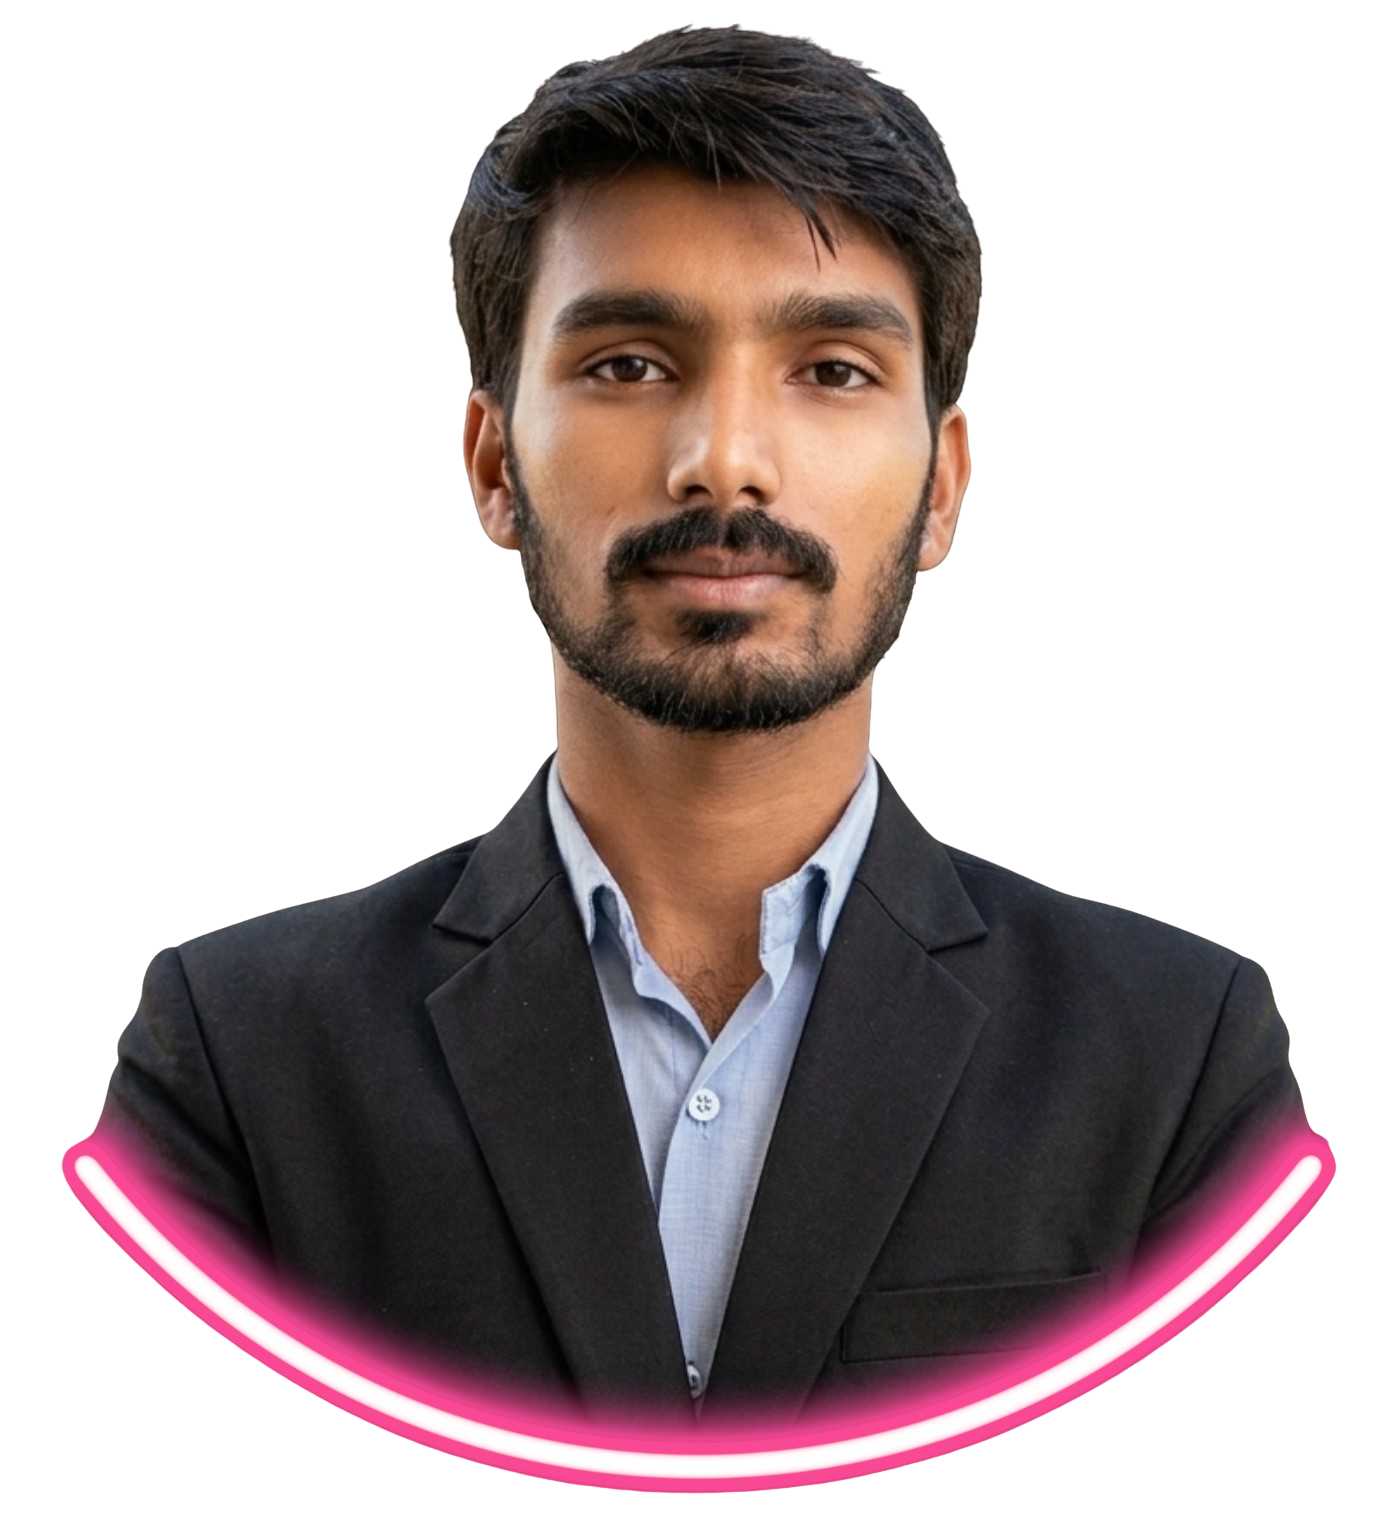
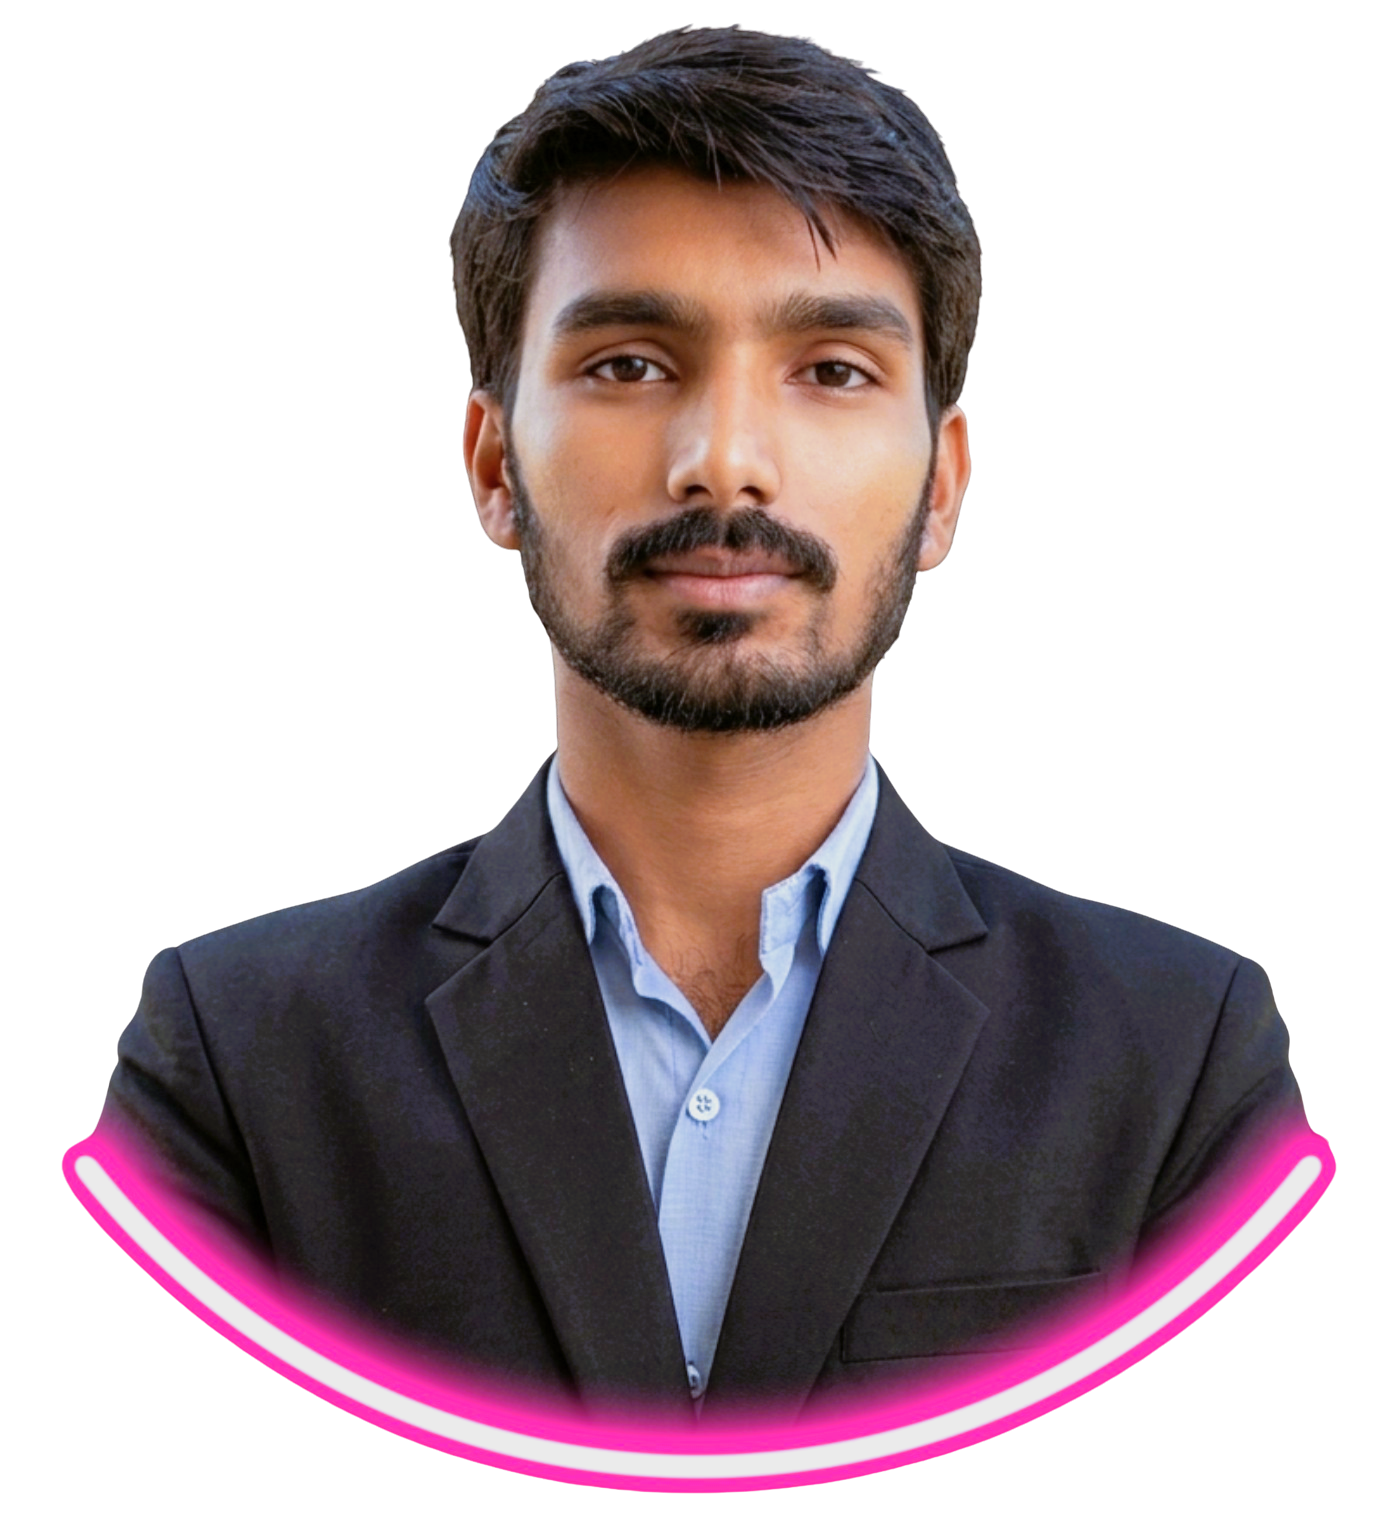
updated profile pic and arc

diff --git a/style.css b/style.css
@@ -282,7 +282,7 @@ button { cursor: pointer; border: none; background: none; font-family: inherit; 
   display: grid;
   grid-template-columns: 1.1fr 0.9fr;
   gap: 60px;
-  align-items: center;
+  align-items: left;
   width: 100%;
 }
 .home-welcome {
@@ -403,7 +403,7 @@ button { cursor: pointer; border: none; background: none; font-family: inherit; 
   flex-wrap: wrap;
 }
 /* ===============================
-   HERO PHOTO — PREMIUM VERSION
+   HERO IMAGE — COMPLETE REDESIGN
 ================================ */
 
 .home-photo {
@@ -412,60 +412,72 @@ button { cursor: pointer; border: none; background: none; font-family: inherit; 
   align-items: center;
 }
 
-.photo-container {
+.hero-visual {
   position: relative;
-  width: 320px;
-  height: 420px;
+  width: 380px;
+  height: 460px;
   display: flex;
   justify-content: center;
   align-items: center;
 }
 
-/* Gradient Glow Blob */
-.photo-glow {
+/* Soft background circle */
+.hero-bg-circle {
   position: absolute;
-  width: 340px;
-  height: 340px;
+  width: 360px;
+  height: 360px;
   background: radial-gradient(circle at center,
-    rgba(255,0,102,0.35),
-    rgba(255,0,102,0.15),
+    rgba(255,0,102,0.18),
+    rgba(255,0,102,0.05),
     transparent 70%);
   border-radius: 50%;
-  filter: blur(40px);
-  animation: glowPulse 4s ease-in-out infinite alternate;
   z-index: 1;
-}
-
-@keyframes glowPulse {
-  from { transform: scale(1); }
-  to { transform: scale(1.1); }
 }
 
 /* PNG Image */
 .hero-photo {
   position: relative;
-  width: 100%;
-  max-width: 300px;
-  z-index: 2;
-  transition: transform 0.5s ease;
+  width: 300px;
+  z-index: 3;
+  animation: floatHero 4s ease-in-out infinite alternate;
+  filter: drop-shadow(0 30px 50px rgba(0,0,0,0.2));
 }
 
-/* Floating effect */
-.hero-photo:hover {
-  transform: translateY(-10px) scale(1.03);
+/* Floating animation */
+@keyframes floatHero {
+  from { transform: translateY(0px); }
+  to   { transform: translateY(-12px); }
 }
 
-/* Ground Shadow */
-.photo-shadow {
+/* Custom CSS Arc */
+.hero-arc {
   position: absolute;
-  bottom: 10px;
+  bottom: 99px;              /* adjust if needed */
+  width: 280px;
+  height: 140px;
+
+  border-bottom: 3px solid var(--accent);
+  border-radius: 0 0 280px 280px;
+
+  z-index: 5;                /* ABOVE image */
+  pointer-events: none;      /* so it doesn't block hover */
+}
+@keyframes glowArc {
+  from { box-shadow: 0 0 15px rgba(255,0,102,0.4); }
+  to   { box-shadow: 0 0 35px rgba(255,0,102,0.8); }
+}
+
+/* Ground shadow */
+.hero-shadow {
+  position: absolute;
+  bottom: 70px;
   width: 180px;
   height: 20px;
   background: radial-gradient(ellipse at center,
-    rgba(0,0,0,0.35),
+    rgba(0,0,0,0.4),
     transparent 70%);
   border-radius: 50%;
-  filter: blur(8px);
+  filter: blur(6px);
   z-index: 0;
 }
 /* Stats strip */

diff --git a/index.html b/index.html
@@ -131,16 +131,18 @@
       </div>
 
       <div class="home-photo fade-in-right delay-2">
+  <div class="hero-visual">
 
-  <div class="photo-container">
-
-    <div class="photo-glow"></div>
+    <div class="hero-bg-circle"></div>
 
     <img src="assets/profile pic.png" alt="Uday Raj Gupta" class="hero-photo">
 
-    <div class="photo-shadow"></div>
+    <div class="hero-arc"></div>
+
+    <div class="hero-shadow"></div>
 
   </div>
+</div>
 
 </div>
 
